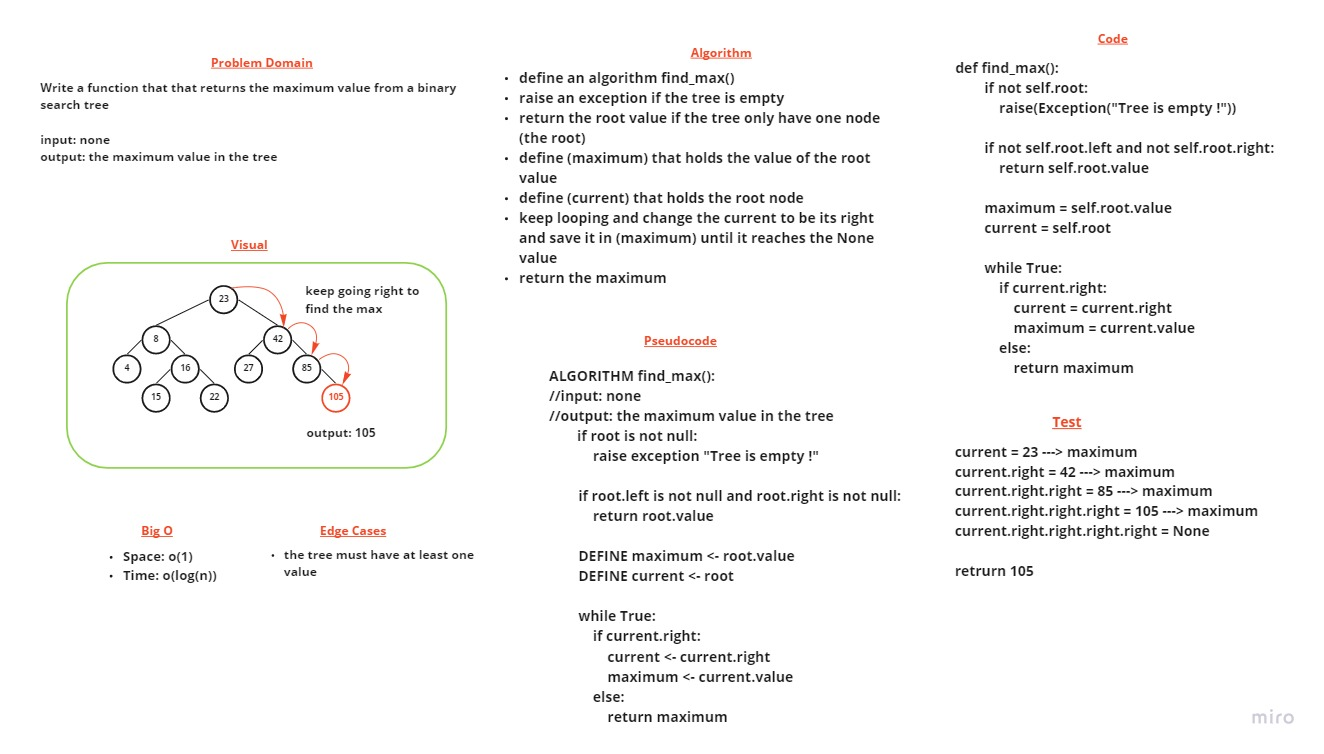
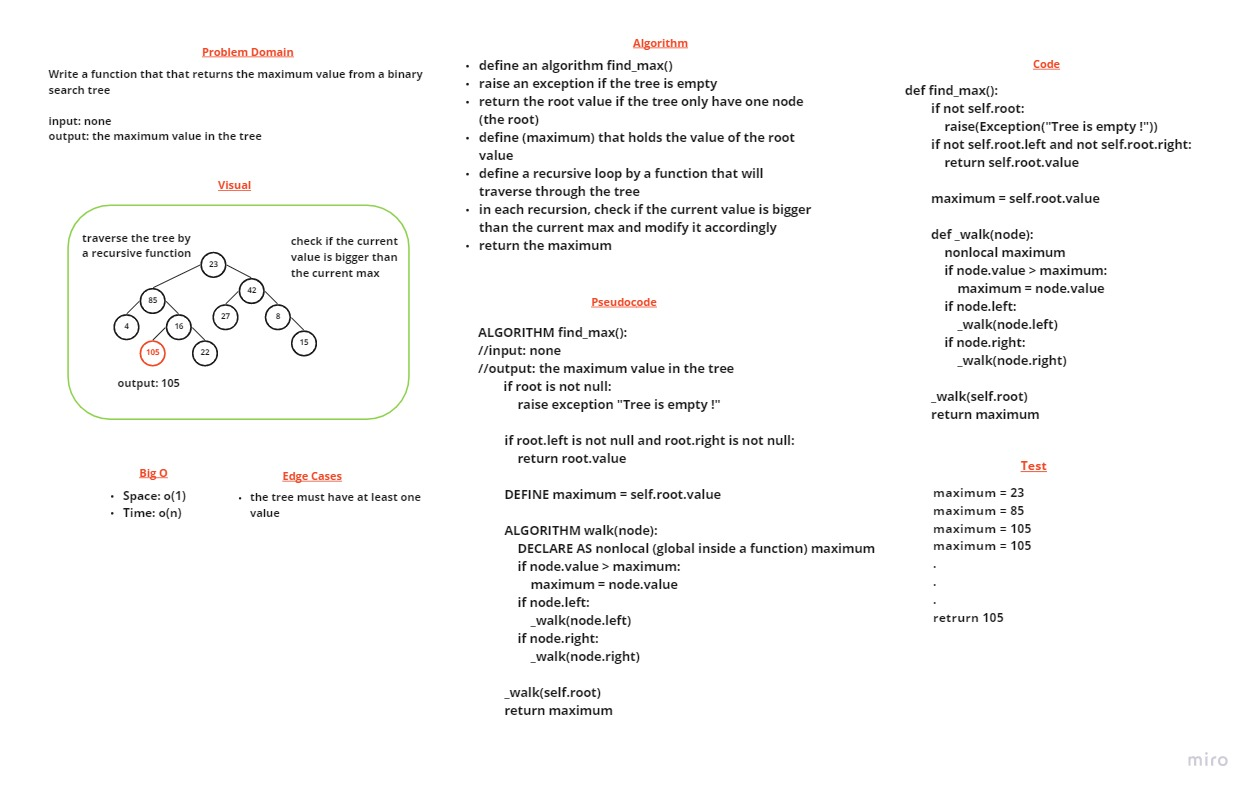
modifying the solution

diff --git a/trees/trees/trees.py b/trees/trees/trees.py
@@ -79,6 +79,39 @@ class BinaryTree:
         
         return list(output)
 
+
+    def find_max(self):
+        """
+        input: none
+        doing: return the maximum value from the binary tree
+        output: number 
+        """
+        
+        if not self.root:
+            raise(Exception("Tree is empty !"))
+        
+        if not self.root.left and not self.root.right:
+            return self.root.value
+
+        maximum = self.root.value
+                
+        def _walk(node):
+            nonlocal maximum 
+
+            if node.value > maximum:
+                maximum = node.value
+            
+            if node.left:
+                _walk(node.left)
+
+            if node.right:
+                _walk(node.right)
+                
+        _walk(self.root)
+        
+        return maximum
+    
+    
         
         
 class BinaryTreeSearch(BinaryTree):
@@ -131,29 +164,6 @@ class BinaryTreeSearch(BinaryTree):
         
         return False
     
-    
-    def find_max(self):
-        """
-        input: none
-        doing: return the maximum value from the binary tree
-        output: number 
-        """
-        
-        if not self.root:
-            raise(Exception("Tree is empty !"))
-        
-        if not self.root.left and not self.root.right:
-            return self.root.value
-
-        maximum = self.root.value
-        current = self.root
-                
-        while True:
-            if current.right:
-                current = current.right                
-                maximum = current.value
-            else:
-                return maximum
     
     
 

diff --git a/trees/tests/test_trees.py b/trees/tests/test_trees.py
@@ -42,12 +42,17 @@ def test_contains_binary_tree_search(myTreeSearch):
     assert myTreeSearch.contains(0) == False
     assert myTreeSearch.contains(100) == False
 
-def test_find_maximum_value(myTreeSearch):
-    assert myTreeSearch.find_max() == 105
+def test_find_maximum_value(myBinaryTree):
+    assert myBinaryTree.find_max() == 105
 
 def test_find_maximum_value_on_empty_tree():
     with pytest.raises(Exception):
-        BinaryTreeSearch().find_max()
+        BinaryTree().find_max()
+
+
+
+
+# ==================================
 
 @pytest.fixture
 def myTree():
@@ -66,6 +71,21 @@ def myTree():
         
     tree = BinaryTree()
     tree.root = nodeA
+    
+    return tree
+
+
+@pytest.fixture
+def myBinaryTree():
+    tree = BinaryTree()
+    tree.root = TNode(23)
+    tree.root.left, tree.root.right = TNode(27), TNode(42)
+    
+    tree.root.left.left, tree.root.left.right = TNode(4), TNode(16)
+    tree.root.left.right.left, tree.root.left.right.right = TNode(105), TNode(22)
+    
+    tree.root.right.left, tree.root.right.right = TNode(8), TNode(85)
+    tree.root.right.right.right = TNode(15)
     
     return tree
 

diff --git a/trees/trees/readme_files/trees_max/README.md b/trees/trees/readme_files/trees_max/README.md
@@ -11,42 +11,65 @@ Write a function that that returns the maximum value from a binary search tree
 ## Approach & Efficiency
 
 define an algorithm find_max()
-raise an exception if the tree is empty, or return the root value if the tree only have one node (the root)
-define (maximum) that holds the value of the root value, and define (current) that holds the root node
-keep looping and change the current to be its right and save it in (maximum) until it reaches the None value
+raise an exception if the tree is empty
+return the root value if the tree only have one node (the root)
+define (maximum) that holds the value of the root value
+define a recursive loop by a function that will traverse through the tree
+in each recursion, check if the current value is bigger than the current max and modify it accordingly 
 return the maximum 
 
-Big-O for time is o(log(n)) because the length of the list is decreasing over each iteration
-Big-O for space is o(1) because we only created two variables to hold the current and the maximum values 
+Big-O is o(n) for time because the rucrsive internal function, and o(1) for space because we only created one variable to hold the max value
 
 ## Solution
 
 ```
 def find_max(self):
-    if not self.root:
-        raise(Exception("Tree is empty !"))
-    
-    if not self.root.left and not self.root.right:
-        return self.root.value
+        if not self.root:
+            raise(Exception("Tree is empty !"))
+        
+        if not self.root.left and not self.root.right:
+            return self.root.value
 
-    maximum = self.root.value
-    current = self.root
+        maximum = self.root.value
+                
+        def _walk(node):
+            nonlocal maximum 
+
+            if node.value > maximum:
+                maximum = node.value
             
-    while True:
-        if current.right:
-            current = current.right                
-            maximum = current.value
-        else:
-            return maximum
+            if node.left:
+                _walk(node.left)
+
+            if node.right:
+                _walk(node.right)
+                
+        _walk(self.root)
+        
+        return maximum
 ```
 
 ## Tests
 
 ```
-def test_find_maximum_value(myTreeSearch):
-    assert myTreeSearch.find_max() == 105
+def test_find_maximum_value(myBinaryTree):
+    assert myBinaryTree.find_max() == 105
 
 def test_find_maximum_value_on_empty_tree():
     with pytest.raises(Exception):
-        BinaryTreeSearch().find_max()
+        BinaryTree().find_max()
+
+@pytest.fixture
+def myBinaryTree():
+    tree = BinaryTree()
+    tree.root = TNode(23)
+    tree.root.left, tree.root.right = TNode(27), TNode(42)
+    
+    tree.root.left.left, tree.root.left.right = TNode(4), TNode(16)
+    tree.root.left.right.left, tree.root.left.right.right = TNode(105), TNode(22)
+    
+    tree.root.right.left, tree.root.right.right = TNode(8), TNode(85)
+    tree.root.right.right.right = TNode(15)
+    
+    return tree
 ```
